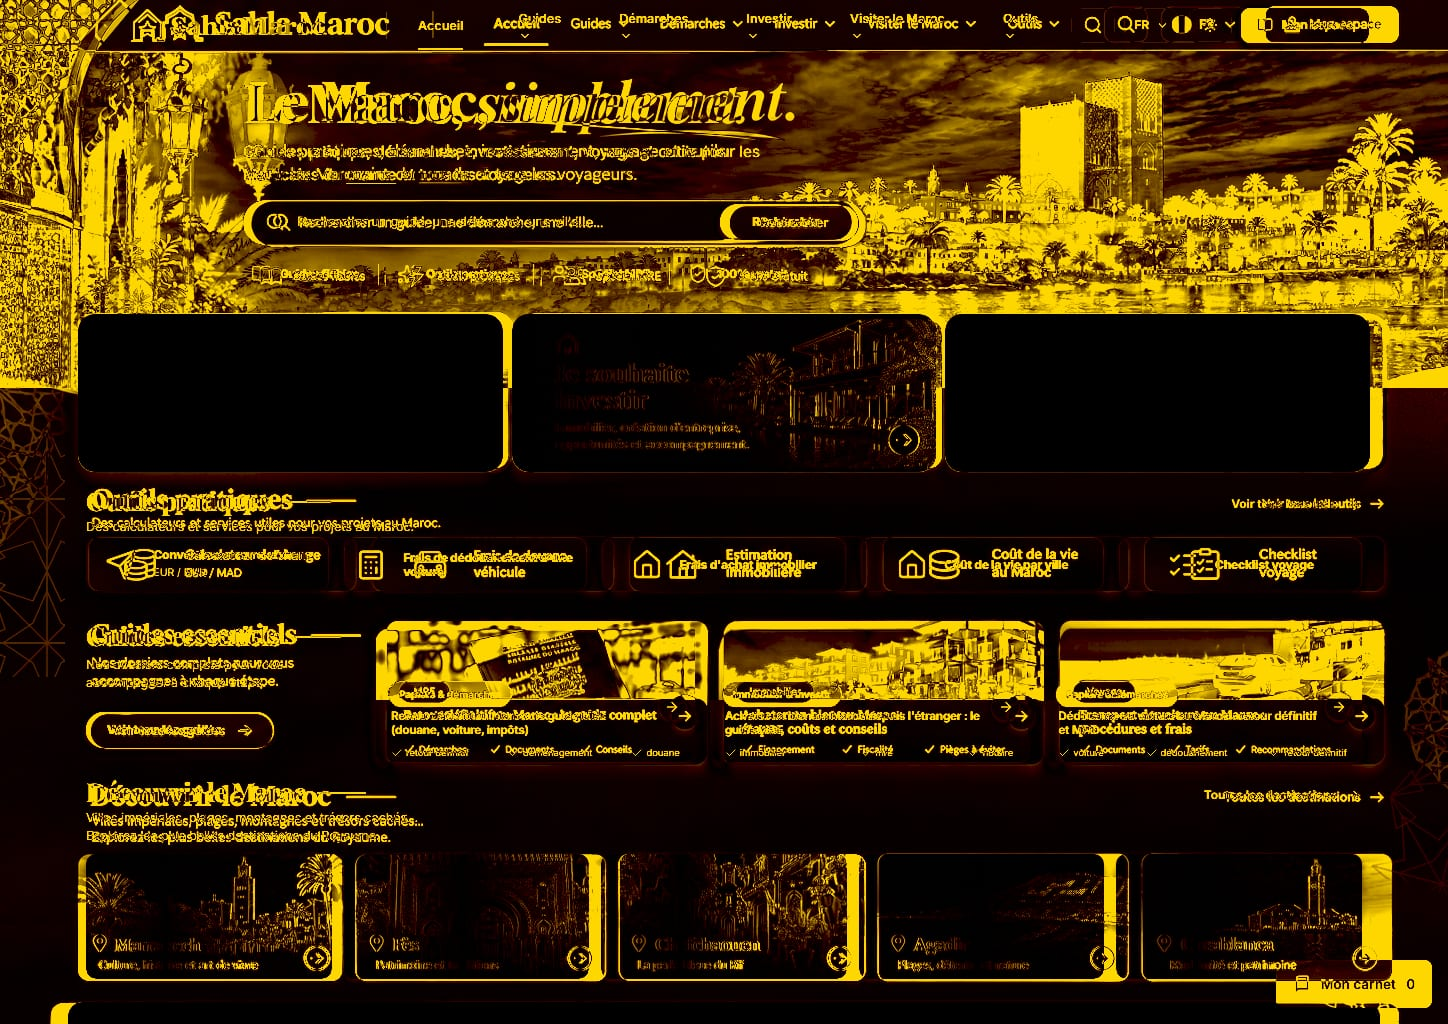
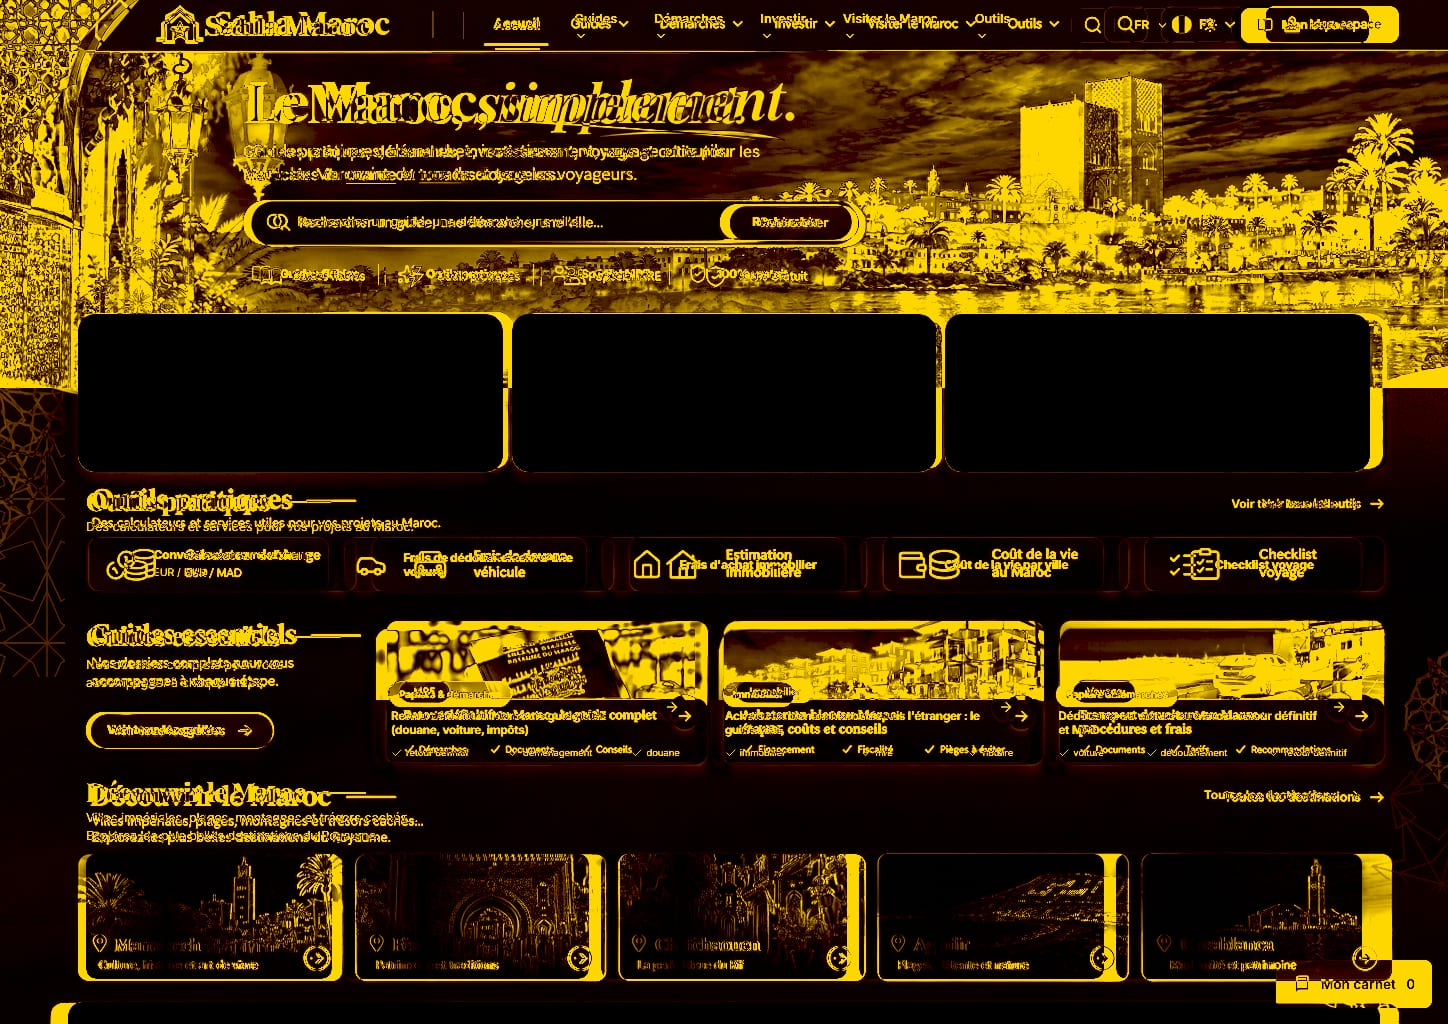
Rapproche l'accueil de la maquette : en-tete aligne, tuiles 1:1 sans reechantillonnage, icones et etiquettes
Bloc de marque 384 px et logo 49 px, navigation en flex-start a 34 px d'ecart, tuiles exactes dessinees a leur taille native, icones d'outils de la maquette, etiquettes de guides courtes. Audit : ecart moyen 27,73 -> 27,5 ; pixels modifies 42,9% -> 42,3%.

diff --git a/src/styles/template.css b/src/styles/template.css
@@ -61,10 +61,10 @@
   align-items: center;
   position: relative;
 }
-.tpl-brand { display: flex; align-items: center; justify-content: center; flex: none; width: 307px; height: 50px; }
-.tpl-brand img { width: 247px; height: auto; max-height: 49px; display: block; }
+.tpl-brand { display: flex; align-items: center; justify-content: center; flex: none; width: 384px; height: 50px; }
+.tpl-brand img { width: auto; height: 49px; max-height: 49px; }
 .tpl-header__divider { height: 27px; border-inline-end: 1px solid #d7cfc7; margin-inline-end: 31px; flex: none; }
-.tpl-nav { display: flex; align-items: stretch; justify-content: space-between; gap: 14px; height: 100%; flex: 1; white-space: nowrap; }
+.tpl-nav { display: flex; align-items: stretch; justify-content: flex-start; gap: 34px; height: 100%; flex: 1; white-space: nowrap; }
 .tpl-nav__item { position: relative; display: flex; align-items: center; gap: 3px; }
 .tpl-nav__link { display: block; padding: 16px 0 14px; font-size: 12.6px; font-weight: 600; color: var(--text); }
 .tpl-nav__link:hover { color: var(--tpl-terracotta); }
@@ -127,7 +127,7 @@ details[open] > .tpl-nav__chevron svg { transform: rotate(180deg); }
 .dark .tpl-brand .logo-dark { display: block; }
 .tpl-brand__fallback { display: flex; align-items: center; gap: 9px; font-family: var(--font-display); font-size: 1.4rem; font-weight: 700; color: var(--brand); white-space: nowrap; }
 .tpl-brand__fallback .italic { color: var(--accent); }
-.tpl-brand img { width: auto; height: 46px; max-height: 49px; }
+.tpl-brand img { width: auto; height: 49px; max-height: 49px; }
 /* Sélecteur de langue (composant LanguageSwitcher) aligné sur les contrôles de la maquette */
 .tpl-lang-wrap summary { height: 35px; min-height: 35px; border: 1px solid #e7ded3; border-radius: 11px; background: #fffbf7; padding: 0 9px; font-size: 12px; font-weight: 700; color: #11171c; gap: 7px; }
 .tpl-lang-wrap summary:hover { border-color: #d7c8b8; }
@@ -259,7 +259,7 @@ details[open] > .tpl-nav__chevron svg { transform: rotate(180deg); }
 }
 .tpl-feature:hover, .tpl-feature:focus-visible { transform: translateY(-3px); box-shadow: var(--tpl-shadow-lift); }
 /* Carte « exacte » (français, ordinateur) : image de la maquette, texte incrusté comme la référence. */
-.tpl-feature__exact { display: none; width: 100%; height: 100%; object-fit: fill; }
+.tpl-feature__exact { display: none; width: 425px; height: 158px; max-width: none; object-fit: fill; object-position: left top; }
 .tpl-feature--exact { height: 158px; border: 0; box-shadow: 0 6px 16px rgb(61 38 27 / .14); }
 .tpl-feature--exact .tpl-feature__exact { display: block; }
 .tpl-feature--exact .tpl-feature__editable { display: none; }
@@ -439,7 +439,7 @@ details[open] > .tpl-nav__chevron svg { transform: rotate(180deg); }
   background: var(--surface-3);
 }
 .tpl-dest:hover, .tpl-dest:focus-visible { transform: translateY(-3px); }
-.tpl-dest__exact { display: none; position: absolute; inset: 0; width: 100%; height: 100%; object-fit: fill; }
+.tpl-dest__exact { display: none; position: absolute; inset-block-start: 0; inset-inline-start: 0; width: 246px; height: 125px; max-width: none; object-fit: fill; }
 .tpl-dest--exact .tpl-dest__exact { display: block; }
 .tpl-dest--exact .tpl-dest__editable { display: none; }
 .tpl-dest__editable { position: absolute; inset: 0; }
@@ -628,8 +628,8 @@ details[open] > .tpl-nav__chevron svg { transform: rotate(180deg); }
 }
 @media (max-width: 1320px) {
   .tpl-header__inner { padding-inline: 18px; }
-  .tpl-brand { width: 265px; }
-  .tpl-brand img { width: 238px; }
+  .tpl-brand { width: 330px; }
+  .tpl-brand img { height: 47px; }
   .tpl-header__divider { margin-inline-end: 18px; }
   .tpl-controls { margin-inline-start: 15px; }
   .tpl-nav { gap: 10px; }
@@ -641,7 +641,7 @@ details[open] > .tpl-nav__chevron svg { transform: rotate(180deg); }
 }
 @media (max-width: 1080px) {
   .tpl-header::before { display: none; }
-  .tpl-brand { width: 245px; }
+  .tpl-brand { width: 300px; }
   .tpl-header__divider { display: none; }
   .tpl-controls { gap: 5px; margin-inline-start: 8px; }
   .tpl-account { padding-inline: 9px; }
@@ -662,7 +662,7 @@ details[open] > .tpl-nav__chevron svg { transform: rotate(180deg); }
   .tpl-nav { display: none; }
   .tpl-burger { display: flex; }
   .tpl-brand { width: auto; }
-  .tpl-brand img { width: 235px; }
+  .tpl-brand img { height: 46px; }
   .tpl-controls { margin-inline-start: auto; }
   .tpl-hero__content { width: 88%; }
   .tpl-tools__grid { grid-template-columns: repeat(3, minmax(0, 1fr)); }
@@ -680,7 +680,7 @@ details[open] > .tpl-nav__chevron svg { transform: rotate(180deg); }
 @media (max-width: 650px) {
   .tpl-header { height: 60px; }
   .tpl-header__inner { height: 60px; padding-inline: 12px; }
-  .tpl-brand img { width: 208px; }
+  .tpl-brand img { height: 42px; }
   .tpl-iconbtn, .tpl-lang__label { display: none; }
   .tpl-lang { width: 38px; padding: 0; }
   .tpl-lang__chev { display: none; }

diff --git a/visual-audit/README.md b/visual-audit/README.md
@@ -27,8 +27,8 @@ verticales d'une colonne), `tools/grid.mjs` (grille de mesure), `tools/extract-r
 
 | Mesure | Avant l'intégration | 1re intégration | Après passe « pixel perfect » |
 |---|---|---|---|
-| Écart moyen par canal | 50,04 | 44,10 | **27,7** |
-| Pixels modifiés (> 24) | 65,6 % | 60,7 % | **42,9 %** |
+| Écart moyen par canal | 50,04 | 44,10 | **27,5** |
+| Pixels modifiés (> 24) | 65,6 % | 60,7 % | **42,3 %** |
 
 Positions mesurées identiques à la maquette (y) : bandeaux parcours **314** (h 158),
 cartes outils **537** (h 55), cartes guides **621** (h 141), cartes destination **854** (h 125),
@@ -49,3 +49,14 @@ bandeau checklists **1002** (h 80), héros **51–388**, en-tête **0–51**.
 5. **Images du ZIP inutilisables telles quelles** : les crops `exact/*.png` du ZIP contiennent
    des fragments des cartes voisines et du titre de section ; les tuiles ont donc été
    réextraites de la référence à l'échelle 1:1 (`tools/extract-reference.mjs`).
+
+## Corrections apportées depuis la première mesure
+
+- En-tête : bloc de marque 384 px, logo 49 px de haut, navigation en `flex-start` avec 34 px
+  d'écart (« Accueil » à 496 px contre 494 px sur la maquette, « Visiter le Maroc » 844–936
+  contre 868–974 — l'écart restant vient de la largeur du texte rendu par Inter).
+- Tuiles exactes dessinées à leur taille native (425 × 158, 246 × 125, 1312 × 80) : plus de
+  mise à l'échelle, donc plus de rééchantillonnage ; le débordement fractionnaire est rogné
+  par le `overflow: hidden` des cartes.
+- Icônes d'outils alignées sur la maquette (pièces, voiture, maison, portefeuille, liste) et
+  étiquettes de guides raccourcies (MRE, Immobilier, Voyage).
